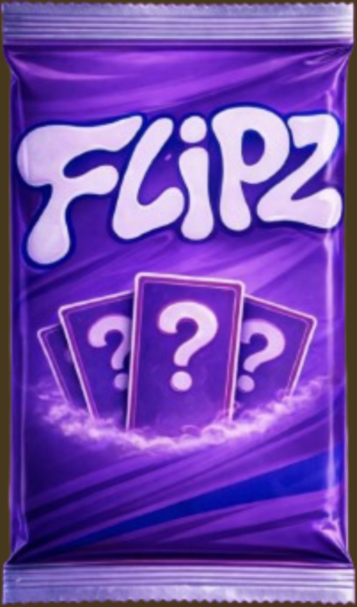
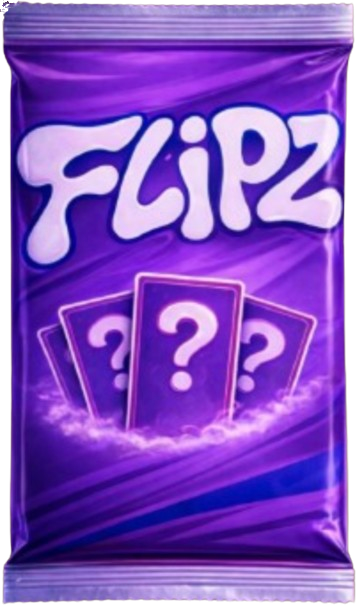
Changes

Changed region(s): [[0.0, 0.0, 1.0, 1.0]]

diff --git a/src/pages/Packs.tsx b/src/pages/Packs.tsx
@@ -114,7 +114,7 @@ const Packs = () => {
           <img
             src={packBoosterImg}
             alt="Pack Flipz"
-            className="relative z-[1] w-72 max-w-[80vw] h-auto mix-blend-lighten drop-shadow-[0_0_40px_hsl(var(--primary)/0.6)] mb-8"
+            className="relative z-[1] w-72 max-w-[80vw] h-auto drop-shadow-[0_0_40px_hsl(var(--primary)/0.6)] mb-8"
             draggable={false}
           />
 
